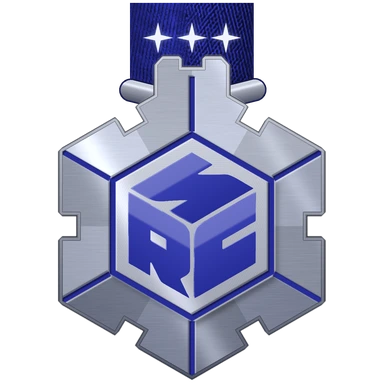
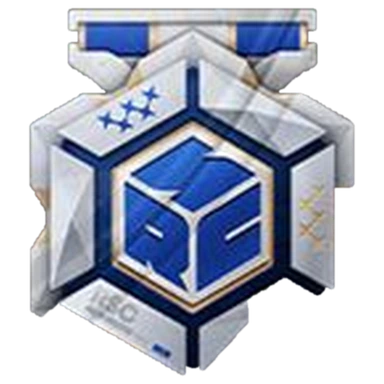
Roscaelifer: official emblem replaces the fan-made medal
Claude-Session: https://claude.ai/code/session_011E7ygcYxQYAdbkbtL5EJYd

diff --git a/NOTICE.md b/NOTICE.md
@@ -8,7 +8,7 @@ ZZZ Team Builder is an unofficial, non-commercial fan project. It is not affilia
 
 ## Game data
 
-Agent, W-Engine, Drive Disc and Bangboo names, ranks, attributes, specialties, factions, stats, set bonuses, release versions, Additional Ability names and conditions, and kit links (Ether Veil and Aftershock) in `src/data/` are factual game information compiled from the community [Zenless Zone Zero Wiki](https://zenless-zone-zero.fandom.com/) on Fandom (October 2026), whose text is available under [CC BY-SA 4.0](https://creativecommons.org/licenses/by-sa/4.0/). Details of upcoming Agents (such as Phoenix's Additional Ability condition and recommended teams) come only from HoYoverse's official reveals and livestreams, apart from Phoenix's Core Passive, Mindscapes and build guidance, which are short rewordings of pre-release information marked "Subject to change" on the site; Severian's condition and the Roxy team are estimates from the 3.3 livestream gameplay and are marked as such on the site until his official reveal; his Drive Discs and build notes come from his official 3.3 in-game trial, and his signature W-Engine Incarcerating Grip's stats and passive from that trial (as listed by zzz.gg), marked "Subject to change" until release. Phoenix and her W-Engine Plume of Rebirth released in 3.3. Sunbringer (Eldreda, Lindverne and Dracaene Sunbringer, an S-rank Fire Armorer of Roscaelifer, listed for 3.4) comes only from HoYoverse's official drip marketing; her portraits (one per member) are cropped from that official art, her blue Void Hunter Fire icon is redrawn from the one in her Agent Record (the Frost, Honed Edge and Auric Ink icons are HoYoverse's official in-game icons), a fan-made Roscaelifer medal (drawn for this site from the official "RSC" lettering, until a clear official emblem is shown) and her members' department logos (Administrative Affairs and Central Computing, the latter recoloured to the gold of the official reveal) are taken from HoYoverse's "Five Central Departments" posts, and the "From a mother to her children" verses on her exported cards are quoted from the same reveal, and her kit, build and Core Skill drops are left blank until they're revealed. Kafka (an S-rank Electric Anomaly Agent from the Honkai: Star Rail collaboration, Unknown Realm, listed for 3.4) likewise comes only from HoYoverse's official drip marketing: her portrait is cropped from that art, her quote on exported cards is quoted from it, and her kit, build and Core Skill drops are left blank until they're revealed. Robin (an S-rank Ether Defense Agent from the same collaboration, Unknown Realm, listed for 3.4) comes the same way from her official drip marketing, and the team with Sunbringer and Norma from Sunbringer's official gameplay footage; the Unknown Realm logo is HoYoverse's official emblem. Kafka's and Robin's suggested builds and other teams are estimates from similar Agents (Anomaly Agents for Kafka, Zhao for Robin) and are marked as estimates on the site. Skill summaries in `src/data/skills/` (skills, Core Passive values by level, Additional Abilities, Mindscapes and Potential) are shortened rewordings of the same Wiki's skill text, with the game's numbers kept, and are shared under the same CC BY-SA 4.0 licence. Bangboo skill summaries (`src/data/bangbooSkills.js`) are shortened the same way. Level-up, skill and Core Skill material costs and where they drop (`src/data/materials.js`) come from the same Wiki. W-Engine, Bangboo EXP and Drive Disc levelling costs (`src/data/levelMats.js`) come from Icy Veins' Zenless Zone Zero leveling guide and W-Engine pages (October 2026). Faction descriptions in the Glossary (`src/data/glossary.js`) are short summaries written for this site from facts in Icy Veins' and Game8's faction guides (October 2026). The Ethereals tab's endgame data (`src/data/endgame.js`) is game information: Deadly Assault 3.3.1 dates, weaknesses, resistances and buffs as shown in game (reworded in English), and Shiyu Defense stage weaknesses and buffs from Icy Veins' Critical Node guide (October 2026); boss art is cropped from HoYoverse's official art. The teams it suggests are picked by the site from those facts and the recommended teams above. The order to level each Agent's skills (`src/data/skillPriority.js`) follows the upgrade order listed on ZZZ Build's Agent pages (zzz-build.com, October 2026). Only released content and officially announced Agents are included, with occasional clearly-marked test-server figures for upcoming content, ahead of their live release; undocumented leaks are never used. No game files are extracted, decompiled or redistributed.
+Agent, W-Engine, Drive Disc and Bangboo names, ranks, attributes, specialties, factions, stats, set bonuses, release versions, Additional Ability names and conditions, and kit links (Ether Veil and Aftershock) in `src/data/` are factual game information compiled from the community [Zenless Zone Zero Wiki](https://zenless-zone-zero.fandom.com/) on Fandom (October 2026), whose text is available under [CC BY-SA 4.0](https://creativecommons.org/licenses/by-sa/4.0/). Details of upcoming Agents (such as Phoenix's Additional Ability condition and recommended teams) come only from HoYoverse's official reveals and livestreams, apart from Phoenix's Core Passive, Mindscapes and build guidance, which are short rewordings of pre-release information marked "Subject to change" on the site; Severian's condition and the Roxy team are estimates from the 3.3 livestream gameplay and are marked as such on the site until his official reveal; his Drive Discs and build notes come from his official 3.3 in-game trial, and his signature W-Engine Incarcerating Grip's stats and passive from that trial (as listed by zzz.gg), marked "Subject to change" until release. Phoenix and her W-Engine Plume of Rebirth released in 3.3. Sunbringer (Eldreda, Lindverne and Dracaene Sunbringer, an S-rank Fire Armorer of Roscaelifer, listed for 3.4) comes only from HoYoverse's official drip marketing; her portraits (one per member) are cropped from that official art, her blue Void Hunter Fire icon is redrawn from the one in her Agent Record (the Frost, Honed Edge and Auric Ink icons are HoYoverse's official in-game icons), the official Roscaelifer emblem (cut out from HoYoverse's "New Eridu Archives" post) and her members' department logos (Administrative Affairs and Central Computing, the latter recoloured to the gold of the official reveal) are taken from HoYoverse's "Five Central Departments" posts, and the "From a mother to her children" verses on her exported cards are quoted from the same reveal, and her kit, build and Core Skill drops are left blank until they're revealed. Kafka (an S-rank Electric Anomaly Agent from the Honkai: Star Rail collaboration, Unknown Realm, listed for 3.4) likewise comes only from HoYoverse's official drip marketing: her portrait is cropped from that art, her quote on exported cards is quoted from it, and her kit, build and Core Skill drops are left blank until they're revealed. Robin (an S-rank Ether Defense Agent from the same collaboration, Unknown Realm, listed for 3.4) comes the same way from her official drip marketing, and the team with Sunbringer and Norma from Sunbringer's official gameplay footage; the Unknown Realm logo is HoYoverse's official emblem. Kafka's and Robin's suggested builds and other teams are estimates from similar Agents (Anomaly Agents for Kafka, Zhao for Robin) and are marked as estimates on the site. Skill summaries in `src/data/skills/` (skills, Core Passive values by level, Additional Abilities, Mindscapes and Potential) are shortened rewordings of the same Wiki's skill text, with the game's numbers kept, and are shared under the same CC BY-SA 4.0 licence. Bangboo skill summaries (`src/data/bangbooSkills.js`) are shortened the same way. Level-up, skill and Core Skill material costs and where they drop (`src/data/materials.js`) come from the same Wiki. W-Engine, Bangboo EXP and Drive Disc levelling costs (`src/data/levelMats.js`) come from Icy Veins' Zenless Zone Zero leveling guide and W-Engine pages (October 2026). Faction descriptions in the Glossary (`src/data/glossary.js`) are short summaries written for this site from facts in Icy Veins' and Game8's faction guides (October 2026). The Ethereals tab's endgame data (`src/data/endgame.js`) is game information: Deadly Assault 3.3.1 dates, weaknesses, resistances and buffs as shown in game (reworded in English), and Shiyu Defense stage weaknesses and buffs from Icy Veins' Critical Node guide (October 2026); boss art is cropped from HoYoverse's official art. The teams it suggests are picked by the site from those facts and the recommended teams above. The order to level each Agent's skills (`src/data/skillPriority.js`) follows the upgrade order listed on ZZZ Build's Agent pages (zzz-build.com, October 2026). Only released content and officially announced Agents are included, with occasional clearly-marked test-server figures for upcoming content, ahead of their live release; undocumented leaks are never used. No game files are extracted, decompiled or redistributed.
 
 Recommended builds and best teams on the Agent pages (`src/data/builds.js`) are community picks compiled from [Icy Veins](https://www.icy-veins.com/zenless-zone-zero/)' Zenless Zone Zero build and team guides (October 2026): only the names of W-Engines, Drive Disc sets, stats and Agents are used, not their write-ups. They are recommendations, not official HoYoverse data, and change with new Agents and patches.
 
